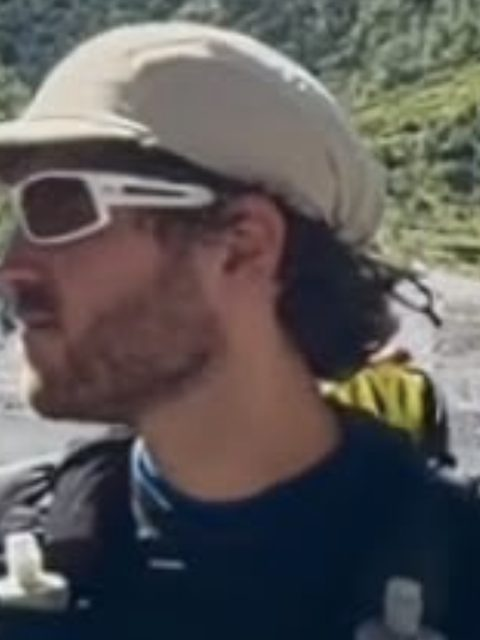
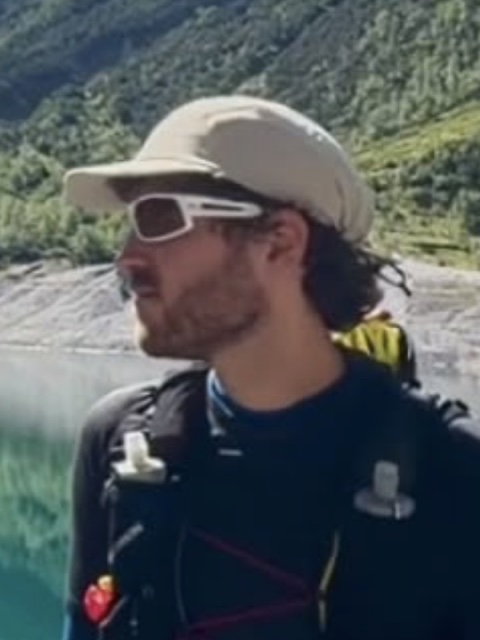
Adhérents : nouvelle photo de Corentin

diff --git a/donnees/membres.js b/donnees/membres.js
@@ -73,7 +73,7 @@ const MEMBRES=[
   {nom:'Guillaume B', citation:'Boire c\'est la victoire', photo:'images/membres/guillaume-b.jpg?v=1'},
   {nom:'Lino', citation:'Pour combien on accélère ?', photo:'images/membres/lino.jpg?v=1'},
   {nom:'Thomas G', citation:'Les relations humaines, vous savez…', orga:true, photo:'images/membres/thomas-g.jpg?v=1', fond:'images/equipe/cartes/thomas-vice-president.png?v=1'},
-  {nom:'Corentin', citation:'Toujours regarder à droite au passage piéton', photo:'images/membres/corentin.jpg?v=1'},
+  {nom:'Corentin', citation:'Toujours regarder à droite au passage piéton', photo:'images/membres/corentin.jpg?v=2'},
   {nom:'Théo B', citation:'Qui ne tente rien n\'a rien', photo:'images/membres/theo-b.jpg?v=1'},
   {nom:'Axel', citation:'', photo:''},
   {nom:'Alain', citation:'', photo:'images/membres/alain.jpg?v=1'},

diff --git a/notre-equipe.html b/notre-equipe.html
@@ -371,7 +371,7 @@ nav a:focus-visible,.nav-mobile a:focus-visible,footer a:focus-visible,footer bu
 
 <a id="back-to-top" href="#" onclick="event.preventDefault();window.scrollTo({top:0,behavior:'smooth'});" aria-label="Retour en haut">↑</a>
 
-<script src="donnees/membres.js?v=1059"></script>
+<script src="donnees/membres.js?v=1060"></script>
 <script>
 
 /* ===== EN IMAGES (mosaïque équipe, comme la galerie des adhérents) ===== */

diff --git a/nos-adherents.html b/nos-adherents.html
@@ -636,7 +636,7 @@ nav a:focus-visible,.nav-mobile a:focus-visible,footer a:focus-visible,footer bu
     </div>
   </div>
 </div>
-<script src="donnees/membres.js?v=1059"></script>
+<script src="donnees/membres.js?v=1060"></script>
 <script>
 
 /* ===== DONNÉES ===== */
